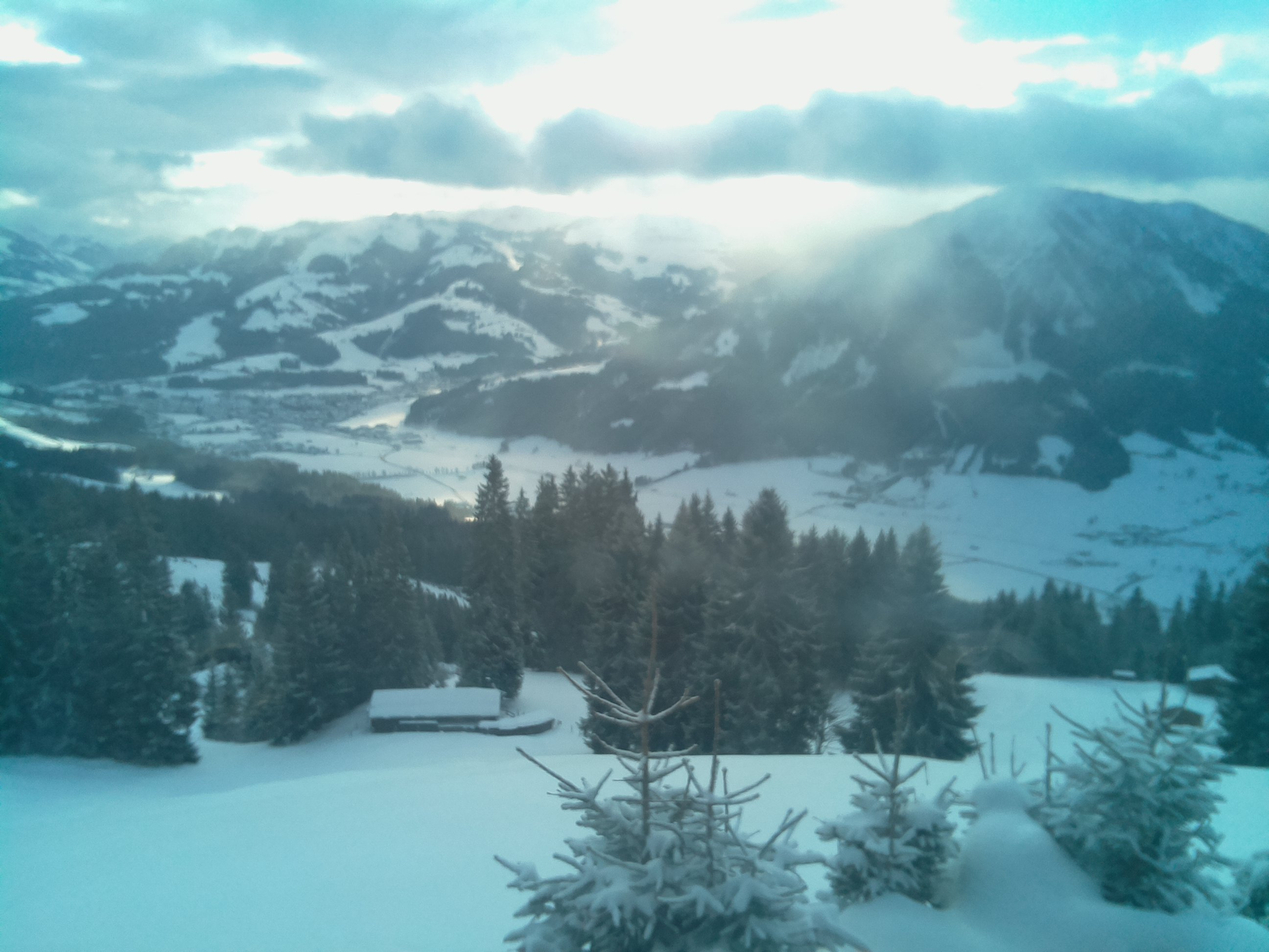
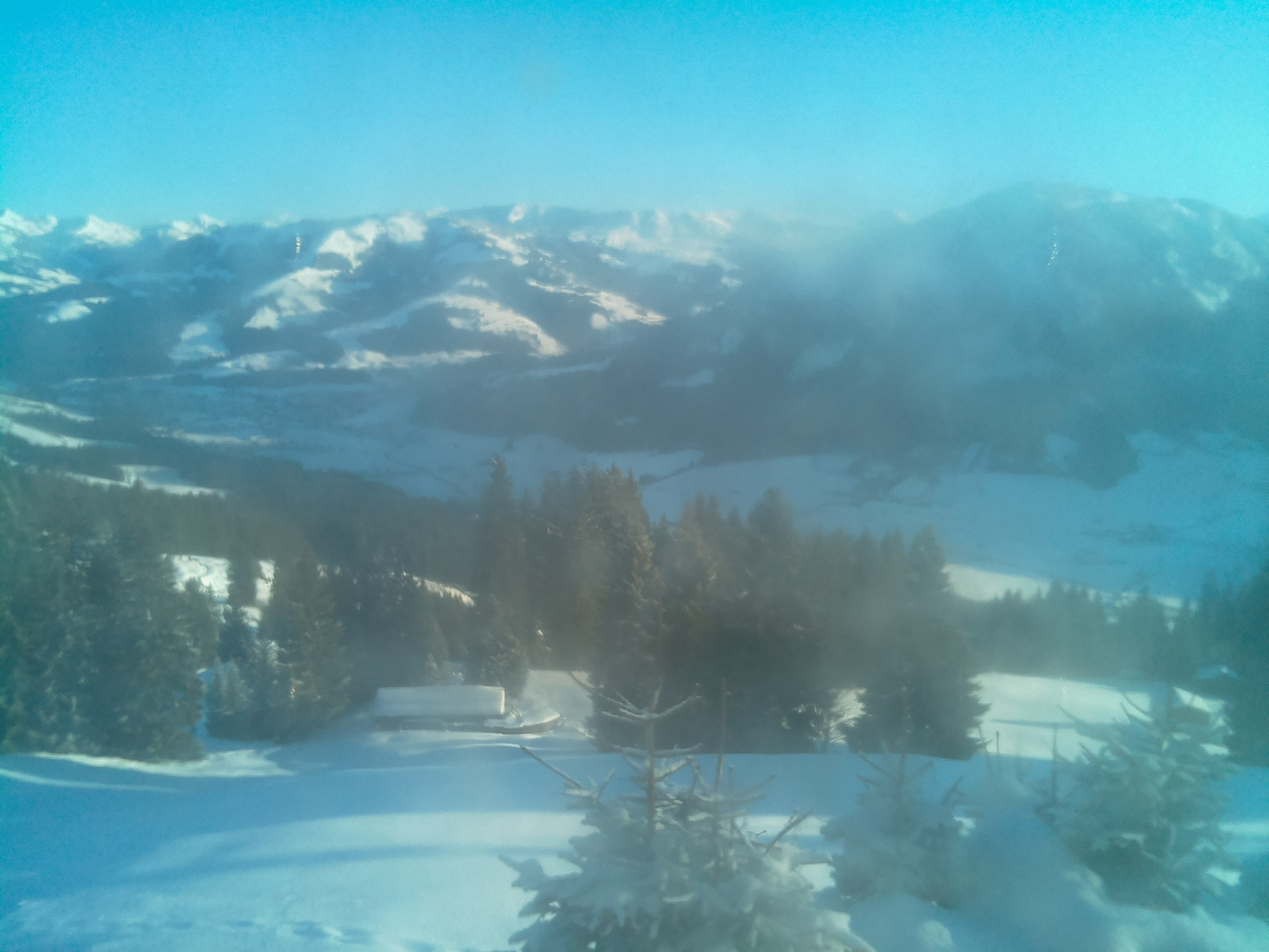
I'm a bot beep boop

diff --git a/resources/huette.md b/resources/huette.md
@@ -6,13 +6,13 @@ image: '/assets/img/'
 description: 'Live image from the Austrian alps'
 twitter_text: ' '
 ---
-## Latest image from 03 December 2021 at  9:10
+## Latest image from 03 December 2021 at 15:10
 <div class="huette">
   <div class="huette-image">
     <img src="{{ "/assets/img/huette.jpg" | prepend: site.baseurl }}">
   </div>
   <div class="huette-text">
-        <h2>Current Temperature: -5.937°C</h2>
+        <h2>Current Temperature: 4.312°C</h2>
         <p>A solar powered raspberry pi left alone in the wild is sending daily images and temperature data to this website. It should give you an impression about the current weather in the "Brixental".</p>
 
   </div>

diff --git a/rpi-script/huette.md b/rpi-script/huette.md
@@ -6,13 +6,13 @@ image: '/assets/img/'
 description: 'Live image from the Austrian alps'
 twitter_text: ' '
 ---
-## Latest image from 03 December 2021 at  9:10
+## Latest image from 03 December 2021 at 15:10
 <div class="huette">
   <div class="huette-image">
     <img src="{{ "/assets/img/huette.jpg" | prepend: site.baseurl }}">
   </div>
   <div class="huette-text">
-        <h2>Current Temperature: -5.937°C</h2>
+        <h2>Current Temperature: 4.312°C</h2>
         <p>A solar powered raspberry pi left alone in the wild is sending daily images and temperature data to this website. It should give you an impression about the current weather in the "Brixental".</p>
 
   </div>
